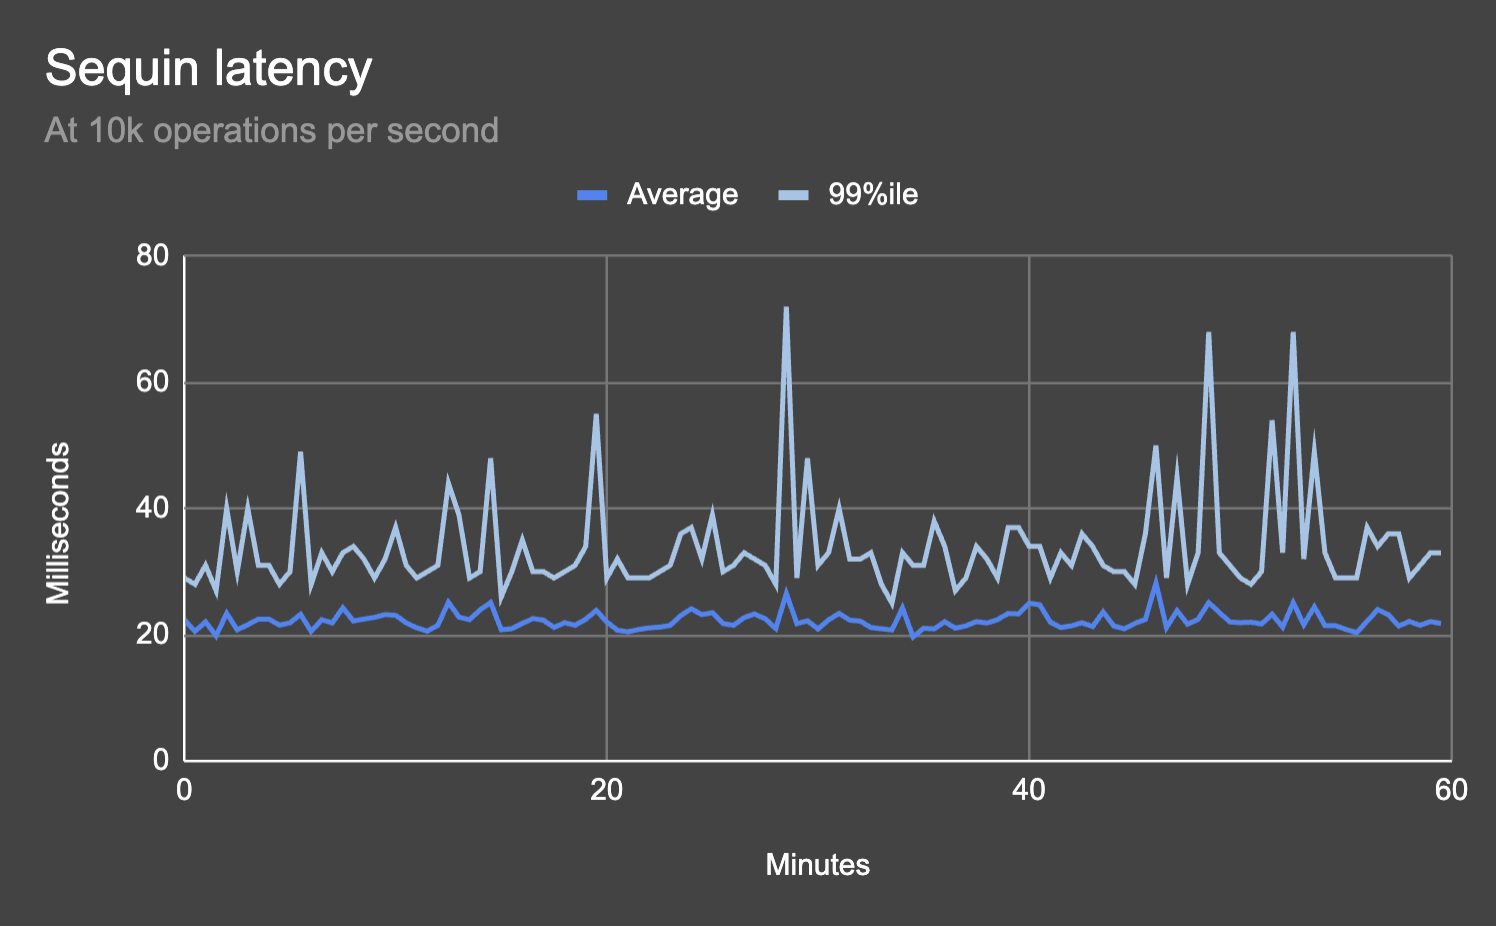
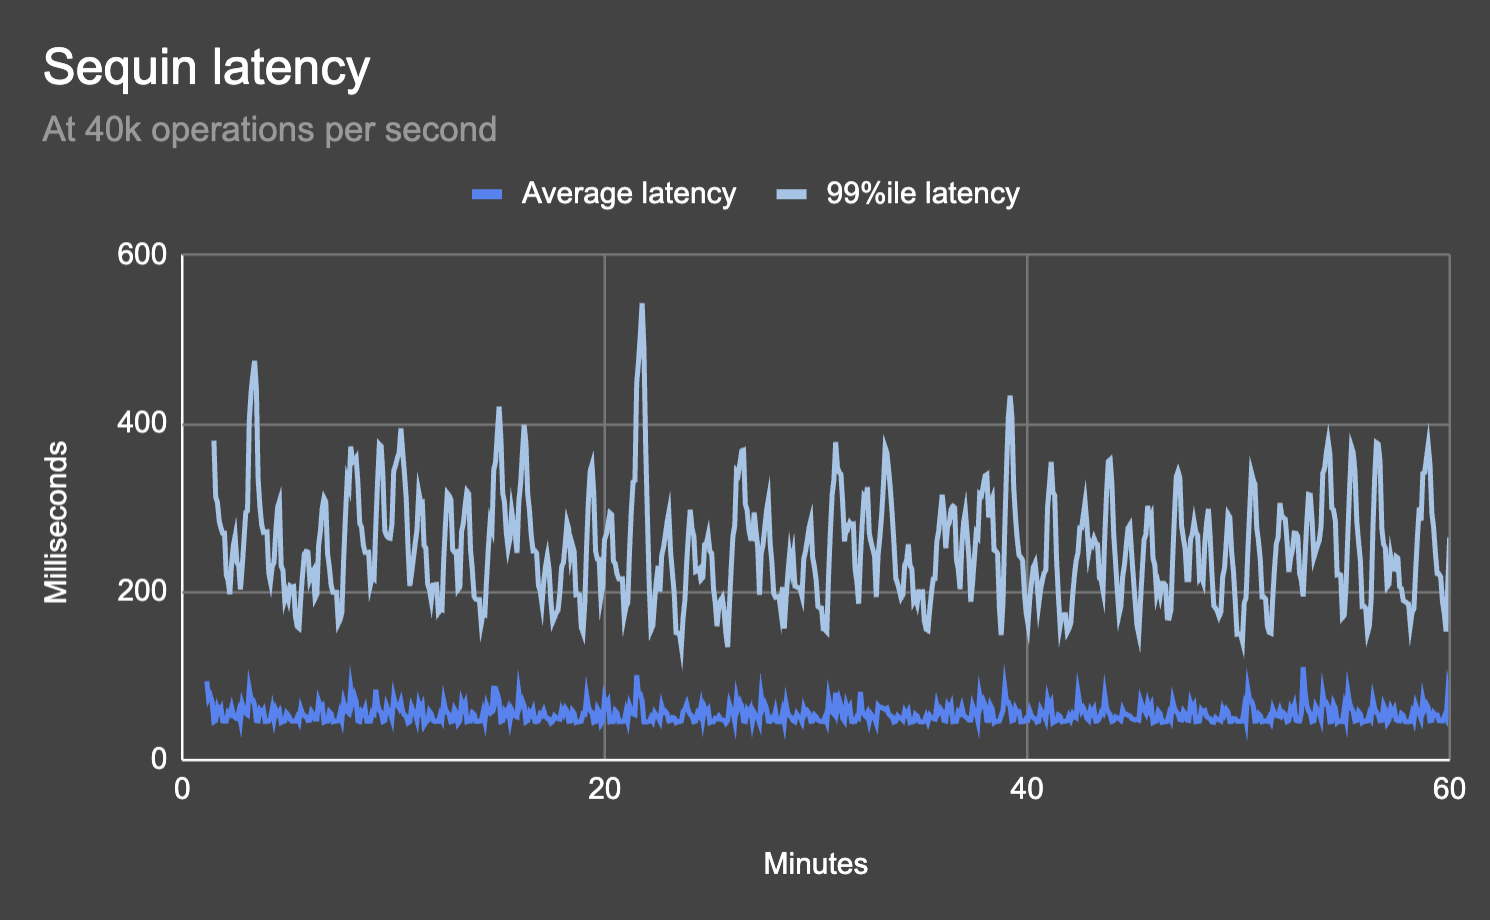
📝 Update docs / README with 40k + 40MB/s bench

diff --git a/README.md b/README.md
@@ -52,6 +52,7 @@ Sequin is open source/MIT. To help us make this project great, tell us what you'
 ## Killer features
 
 - **Never miss a change:** Sequin ensures all database changes are delivered to sinks.
+- **The fastest CDC:** Sequin delivers industry-leading performance for change data capture (CDC), sustaining [40k operations per second with 55ms average latency](https://sequinstream.com/docs/performance).
 - **SQL-based routing:** Filter and route messages to sinks using SQL `where` conditions.
 - **Backfills:** Backfill existing rows from your tables to sinks.
 - **Bring your database:** Sequin is not an extension. It works with any Postgres database version 14\+.
@@ -90,20 +91,20 @@ You can also configure Sequin as code using YAML config files.
 
 ## Benchmarks
 
-Sequin delivers industry-leading performance for change data capture (CDC), sustaining **10k operations per second** with **33.9ms 99th percentile latency**.
+Sequin delivers industry-leading performance for change data capture (CDC), sustaining **40k operations per second** with **55ms average latency**.
 
-| Tool | Latency at 10k ops/s |
+| Tool | Latency at 40k ops/s |
 |------|-------------------|
-| **Sequin** | **34ms** |
-| AWS MSK Debezium | 499ms |
+| **Sequin** | **55ms** |
+| AWS MSK Debezium | 258ms |
 | Fivetran | 5 minutes |
 | Airbyte | 1+ hours |
 
 In our production benchmarks with AWS RDS Postgres and MSK Kafka, Sequin maintains consistent performance under sustained load:
 
-- Average throughput: 10,000 ops/sec
-- Average latency: 22.3ms
-- 99th percentile latency: 33.9ms
+- Average throughput: 40,000 ops/sec
+- Average latency: 55ms
+- 99th percentile latency: 253ms
 
 [Learn more](https://sequinstream.com/docs/performance) about Sequin's current performance in our docs.
 
